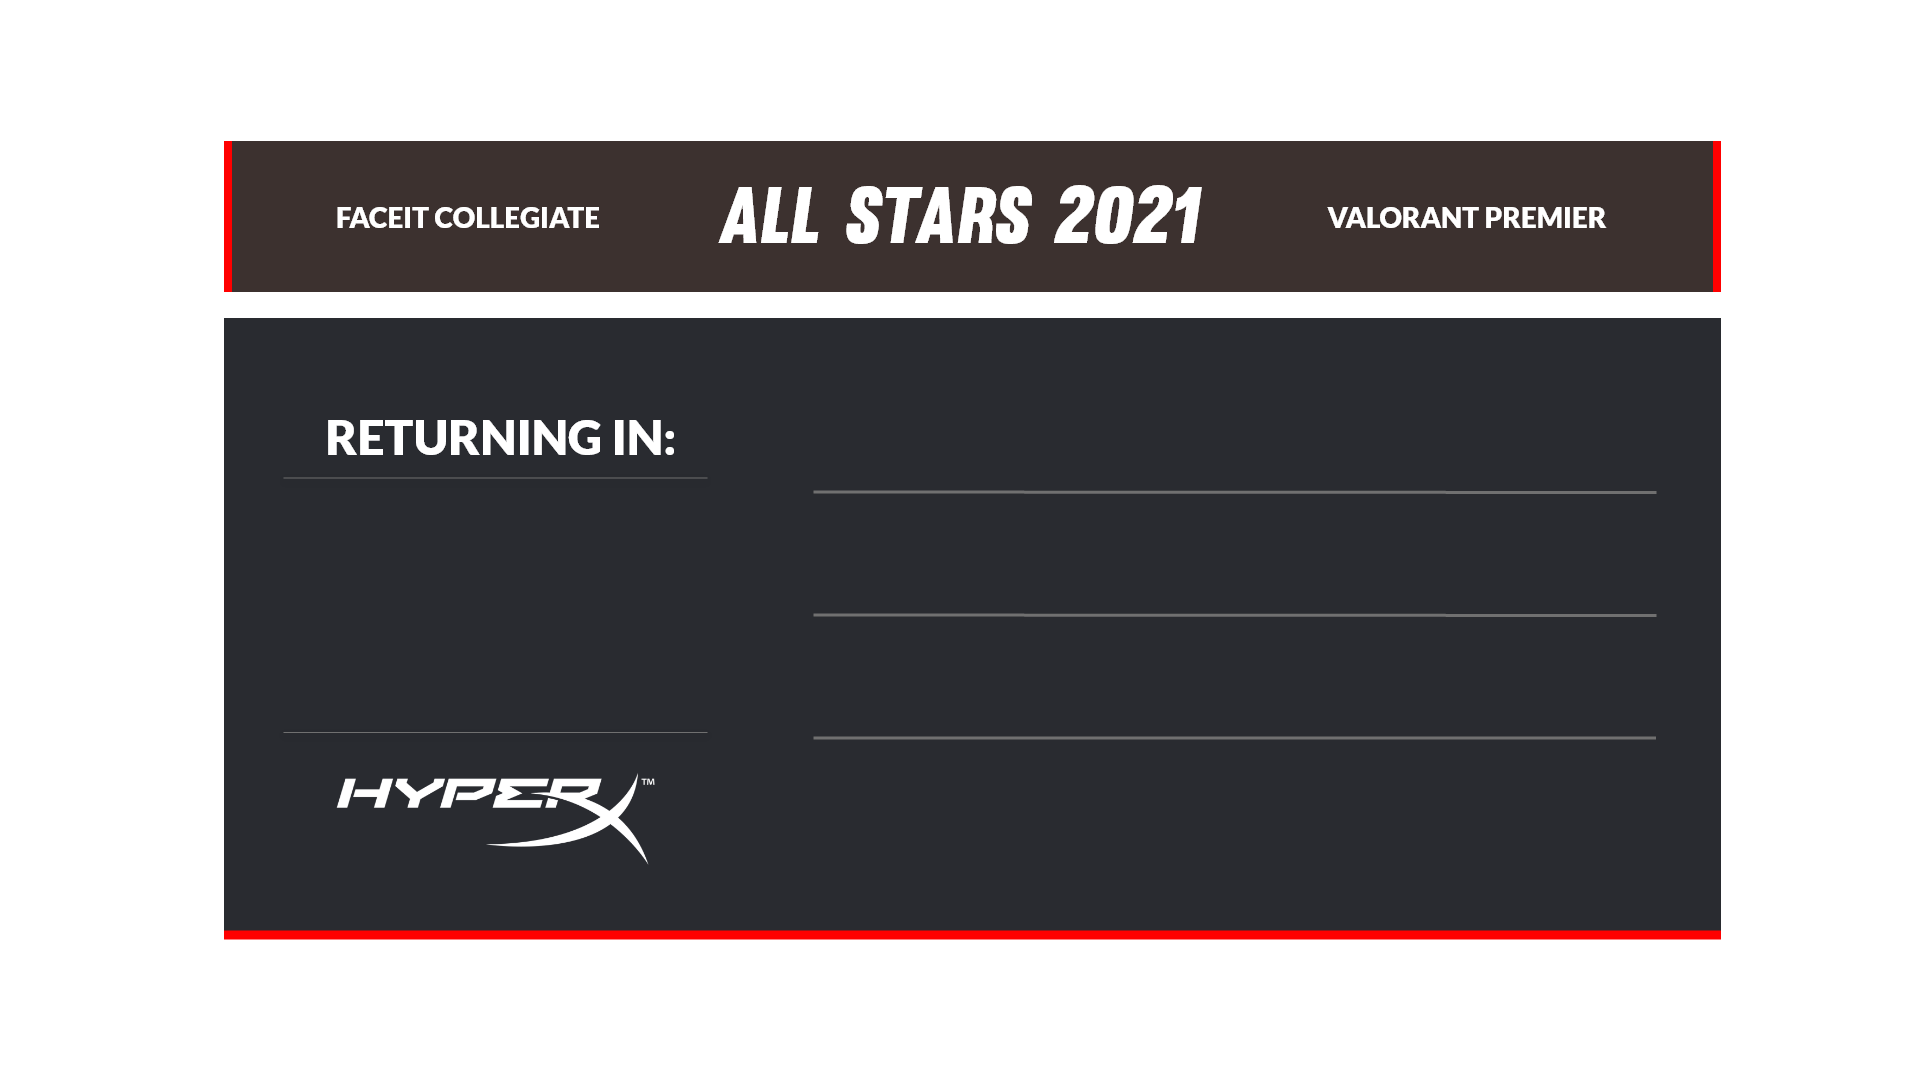
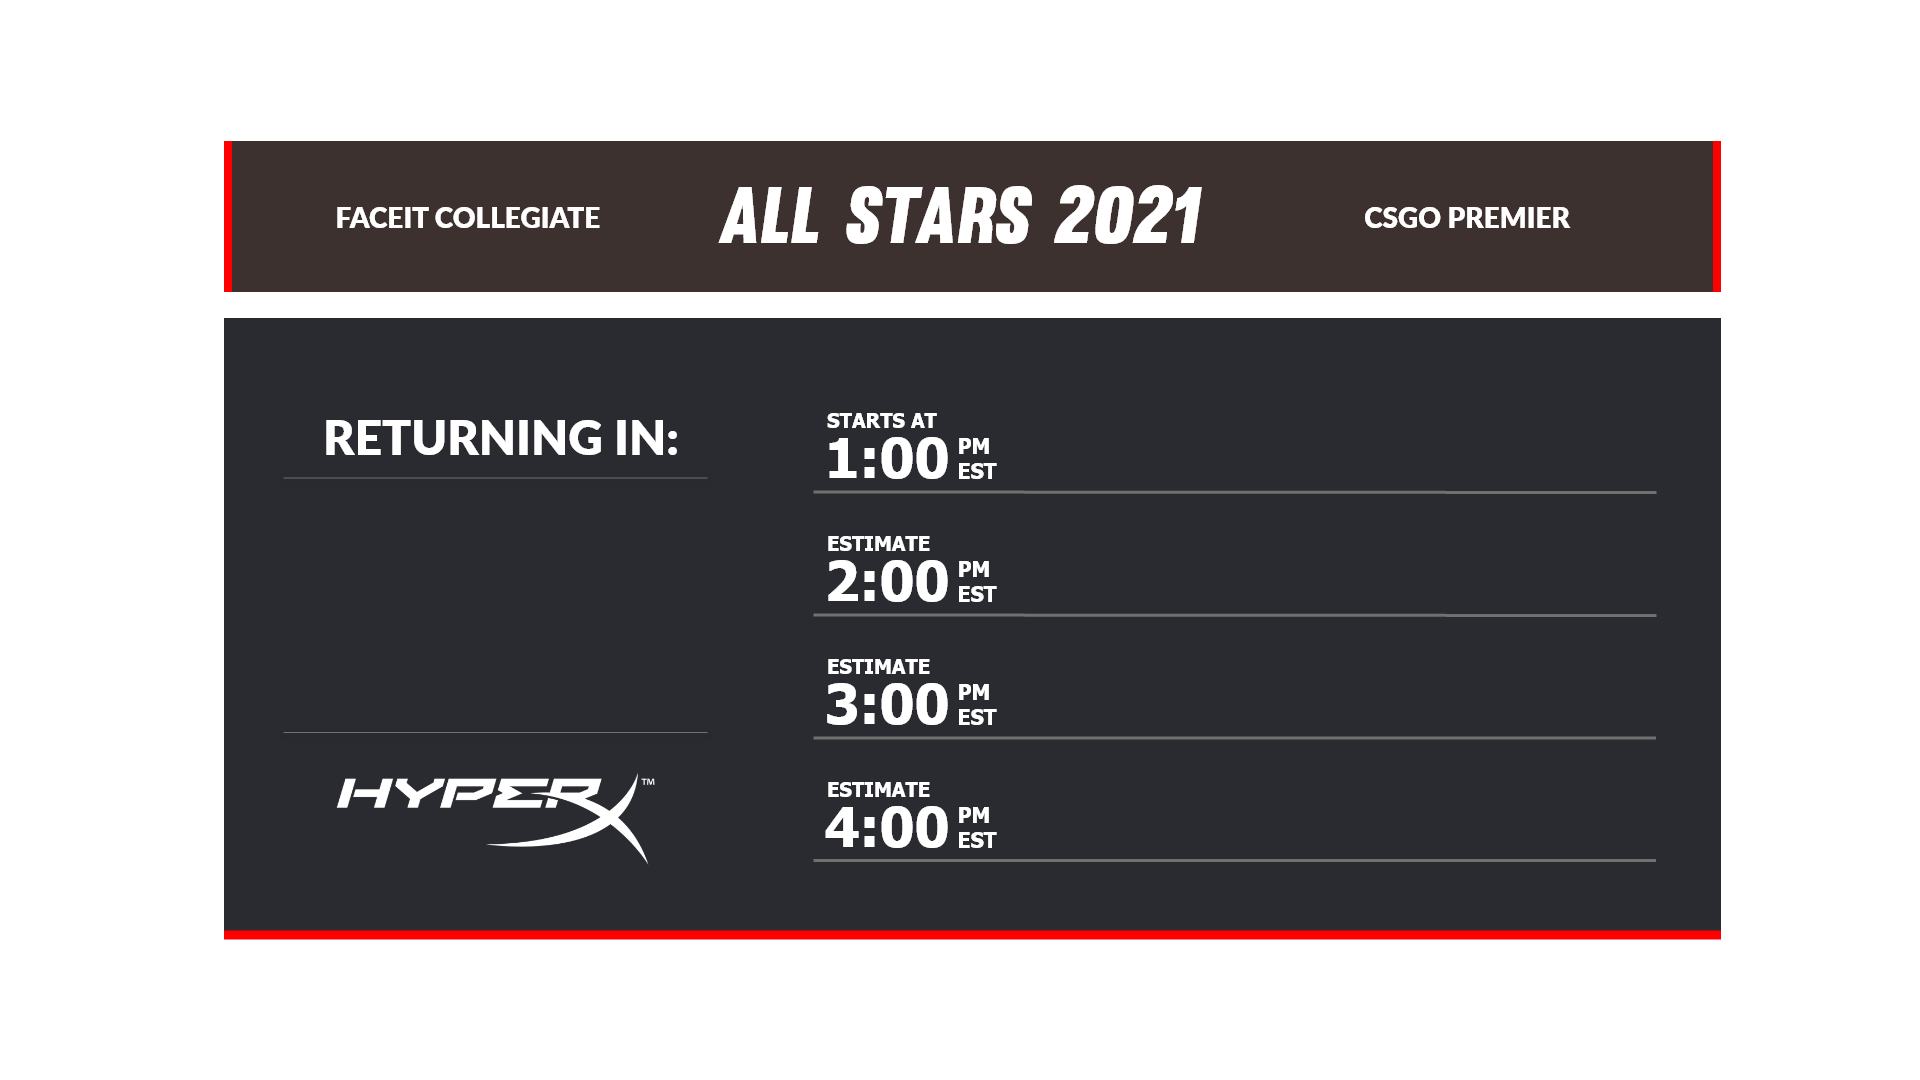
Added allstars stuff

diff --git a/graphics/brb_screen.html b/graphics/brb_screen.html
@@ -13,20 +13,22 @@
 	<body>
 		<div class="counter">30:00</div>
 
-		<div class="textbox" id="topText">STARTS AT</div>
+		<!-- <div class="textbox" id="topText">STARTS AT</div>
 		<div class="timezone" id="topZone">PM EST</div>
-		<div class="timebox" id="topTime">1:00</div>
+		<div class="timebox" id="topTime">1:00</div> -->
 		<div class="box" id="top">NACCS STAFF SHOWDOWN</div>
 
-		<div class="textbox" id="midText">ESTIMATE</div>
+		<!-- <div class="textbox" id="midText">ESTIMATE</div>
 		<div class="timezone" id="midZone">PM EST</div>
-		<div class="timebox" id="midTime">2:00</div>
-		<div class="box" id="mid">REPLICATION RAMPAGE</div>
+		<div class="timebox" id="midTime">2:00</div> -->
+		<div class="box" id="mid">1V1 TOURNAMENT</div>
 
-		<div class="textbox" id="botText">ESTIMATE</div>
+		<!-- <div class="textbox" id="botText">ESTIMATE</div>
 		<div class="timezone" id="botZone">PM EST</div>
-		<div class="timebox" id="botTime">3:00</div>
-		<div class="box" id="bot">ALL STAR GAME (3x Bo1)</div>
+		<div class="timebox" id="botTime">3:00</div> -->
+		<div class="box" id="bot">SUPER SKILLS SHOWCASE</div>
+
+		<div class="box" id="bottom">ALL STAR GAME (BO1)</div>
 
 		<script src="brb_screen.js"></script>
 	</body>

diff --git a/dashboard/leaderboard.js b/dashboard/leaderboard.js
@@ -4,10 +4,47 @@ function generateTable() {
 	var i;
 	for (i = 0; i < 10; i++) {
 		//$('#main').append(`<div class="row"> ${i} </div>`);
-		$('#main').append(
-			`<input type="text" id="text${i + 1}" placeholder="Player ${
-				i + 1
-			}"> </div><br/>`
-		);
+
+		var textBox = document.createElement('input');
+		var intBox = document.createElement('input');
+		$(textBox).prop({
+			type: 'text',
+			id: `text${i + 1}`,
+			placeholder: `Player ${i + 1}`,
+		});
+
+		$(intBox).prop({
+			type: 'number',
+			id: `${i + 1}`,
+			prevplace: `${i + 1}`,
+			min: '1',
+			max: '10',
+			value: `${i + 1}`,
+		});
+
+		intBox.onchange = updateNumber;
+
+		$('#main').append(textBox, intBox, `<br/>`);
 	}
+}
+
+// function updateNumber() {
+// 	console.log(this.value);
+// }
+
+function updateNumber() {
+	var prevValue = this.prevplace; // 1
+	var curValue = this.value; // 2
+
+	var prevBox = document.getElementById(curValue);
+
+	if (prevBox) {
+		//console.log(prevText);
+
+		prevBox.value = prevBox.prevplace = prevBox.id = prevValue; // 1
+
+		this.prevplace = this.id = curValue; // 2
+	}
+
+	// console.log(box);
 }

diff --git a/dashboard/leaderboard.html b/dashboard/leaderboard.html
@@ -6,6 +6,11 @@
 		<script src="https://ajax.googleapis.com/ajax/libs/jquery/3.5.1/jquery.min.js"></script>
 		<meta http-equiv="X-UA-Compatible" content="ie=edge" />
 		<title>Leaderboard</title>
+		<style type="text/css">
+			input[type='number'] {
+				width: 35px;
+			}
+		</style>
 	</head>
 	<body>
 		<div class="mainDiv" id="main"></div>

diff --git a/dashboard/countdown.html b/dashboard/countdown.html
@@ -5,6 +5,11 @@
 		<meta name="viewport" content="width=device-width, initial-scale=1.0" />
 		<meta http-equiv="X-UA-Compatible" content="ie=edge" />
 		<title>Countdown</title>
+		<style type="text/css">
+			input[type='number'] {
+				width: 35px;
+			}
+		</style>
 	</head>
 	<body>
 		<div>

diff --git a/graphics/brb_screen.css b/graphics/brb_screen.css
@@ -62,6 +62,10 @@ body {
 	top: 674px;
 }
 
+#bottom {
+	top: 797px;
+}
+
 .textbox {
 	position: absolute;
 	left: 827px;
